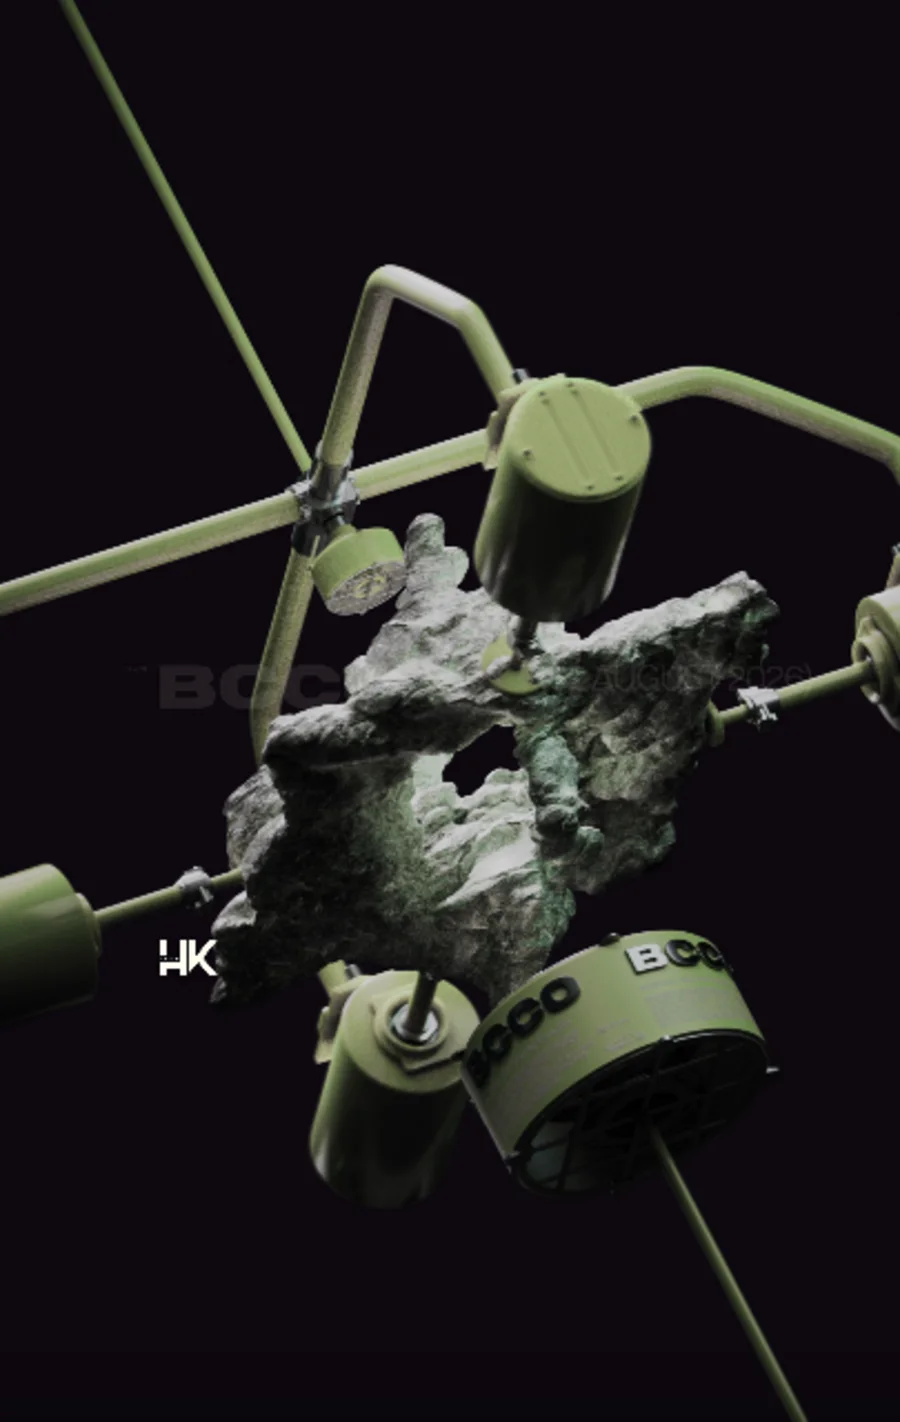
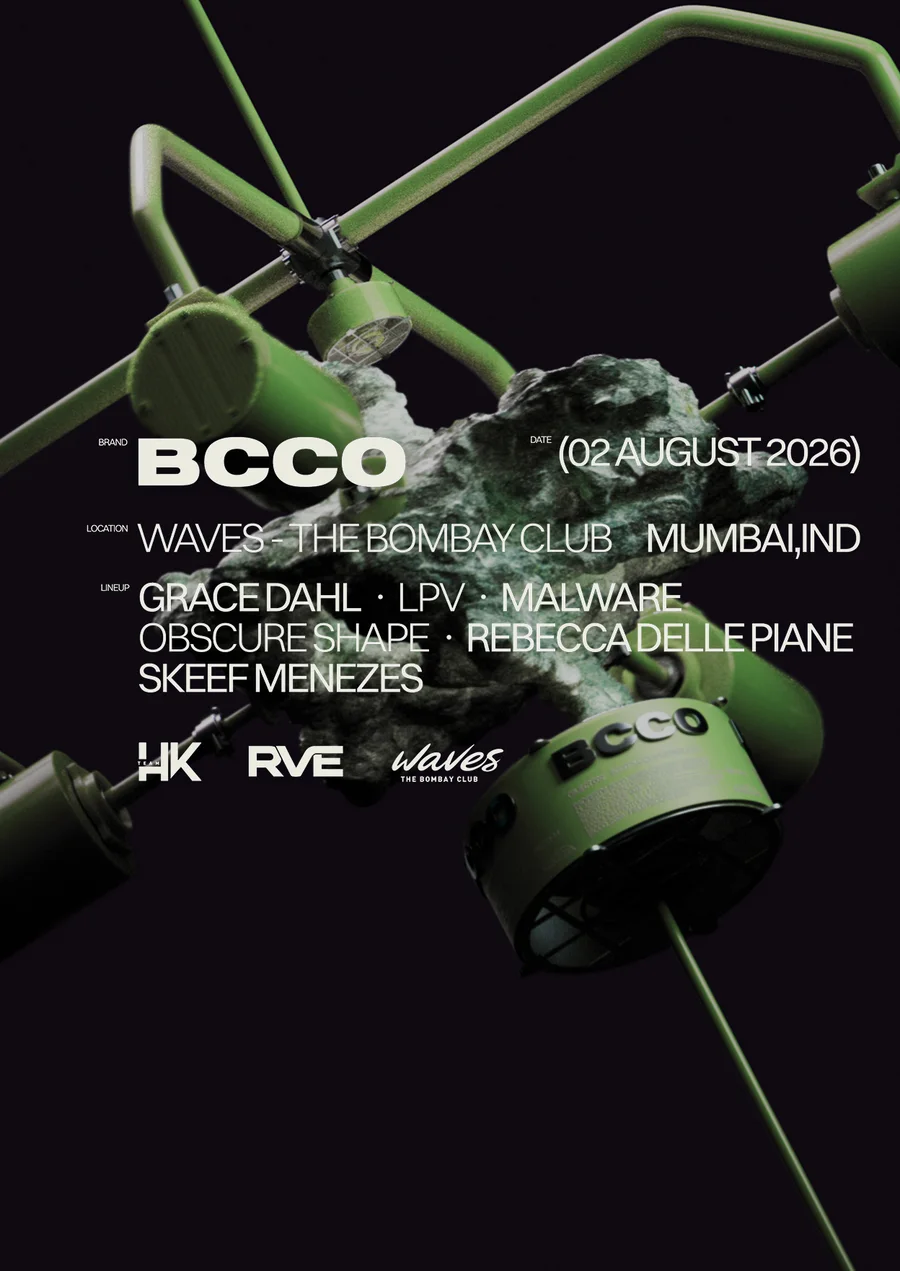
fix: update BCCO Mumbai date and poster

diff --git a/index.html b/index.html
@@ -323,8 +323,8 @@
           data-focus-event
           data-carousel-slide
           data-event-slug="bcco-mumbai"
-          data-event-start="2026-08-21T23:59:59+05:30"
-          data-event-archive="2026-08-21T23:59:59.999+05:30"
+          data-event-start="2026-08-02T23:59:59+05:30"
+          data-event-archive="2026-08-02T23:59:59.999+05:30"
         >
           <div class="focus-art">
             <span class="discount-bookmark">Tickets via DM</span>
@@ -332,13 +332,13 @@
               src="./assets/bcco-mumbai-poster.webp"
               alt="BCCO Berlin Mumbai event poster"
               width="900"
-              height="1422"
+              height="1271"
               loading="eager"
               decoding="async"
             />
           </div>
           <div class="focus-copy">
-            <p class="event-date">21 Aug 2026 / Mumbai</p>
+            <p class="event-date">02 Aug 2026 / Mumbai</p>
             <h3>BCCO Mumbai</h3>
             <div class="focus-description">
               <p>BCCO Berlin lands in Mumbai for a night built for the underground.</p>
@@ -347,7 +347,7 @@
             <dl class="focus-details">
               <div>
                 <dt>Date</dt>
-                <dd>21 August 2026</dd>
+                <dd>02 August 2026</dd>
               </div>
               <div>
                 <dt>Venue</dt>
@@ -897,13 +897,13 @@
                 data-event-slug="bcco-mumbai"
                 href="/event/bcco-mumbai"
               >
-                <time datetime="2026-08-21">21 Aug</time>
+                <time datetime="2026-08-02">02 Aug</time>
                 <strong>BCCO Mumbai</strong>
                 <span>Waves – The Bombay Club / Mumbai</span>
                 <span
                   class="calendar-countdown"
                   data-countdown
-                  data-event-start="2026-08-21T20:00:00+05:30"
+                  data-event-start="2026-08-02T20:00:00+05:30"
                 >
                   Calculating time left
                 </span>
@@ -1280,7 +1280,7 @@
         [
           "bcco-mumbai",
           {
-            target: getWhatsAppTicketUrl("Hey, I wanna buy BCCO Mumbai tickets for 21 August at Waves – The Bombay Club."),
+            target: getWhatsAppTicketUrl("Hey, I wanna buy BCCO Mumbai tickets for 02 August at Waves – The Bombay Club."),
             offer: "direct_dm",
           },
         ],
